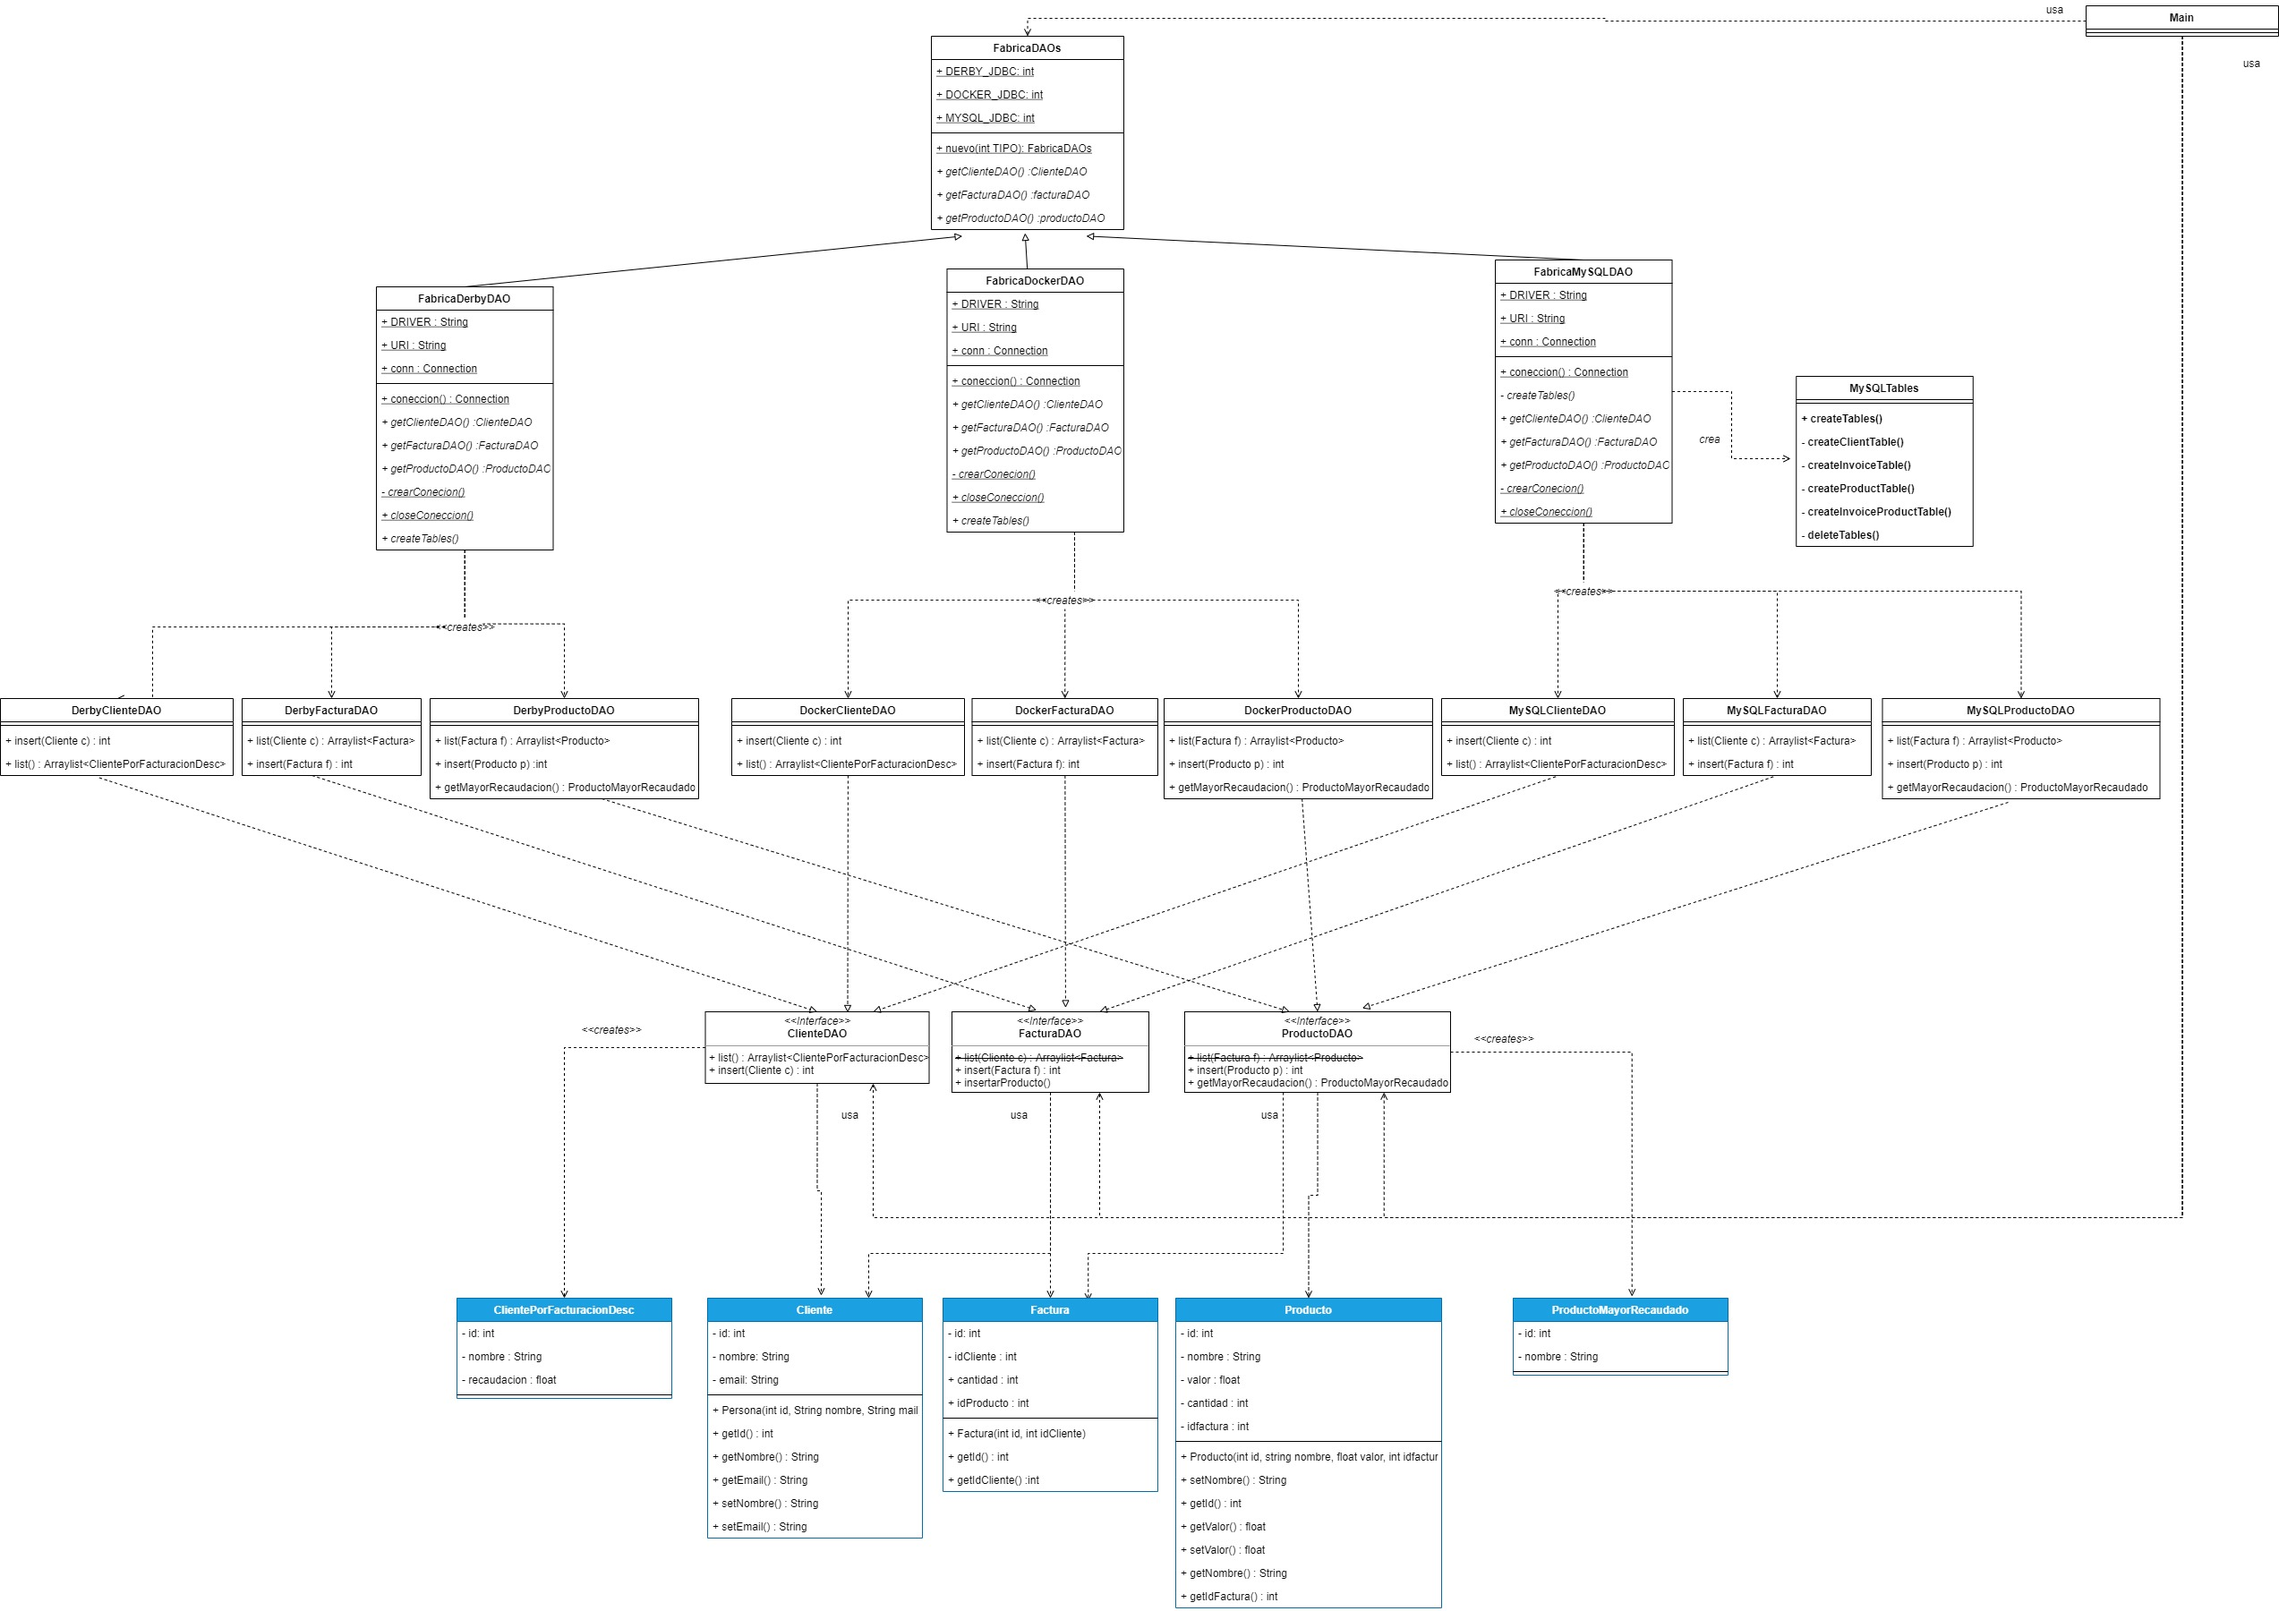
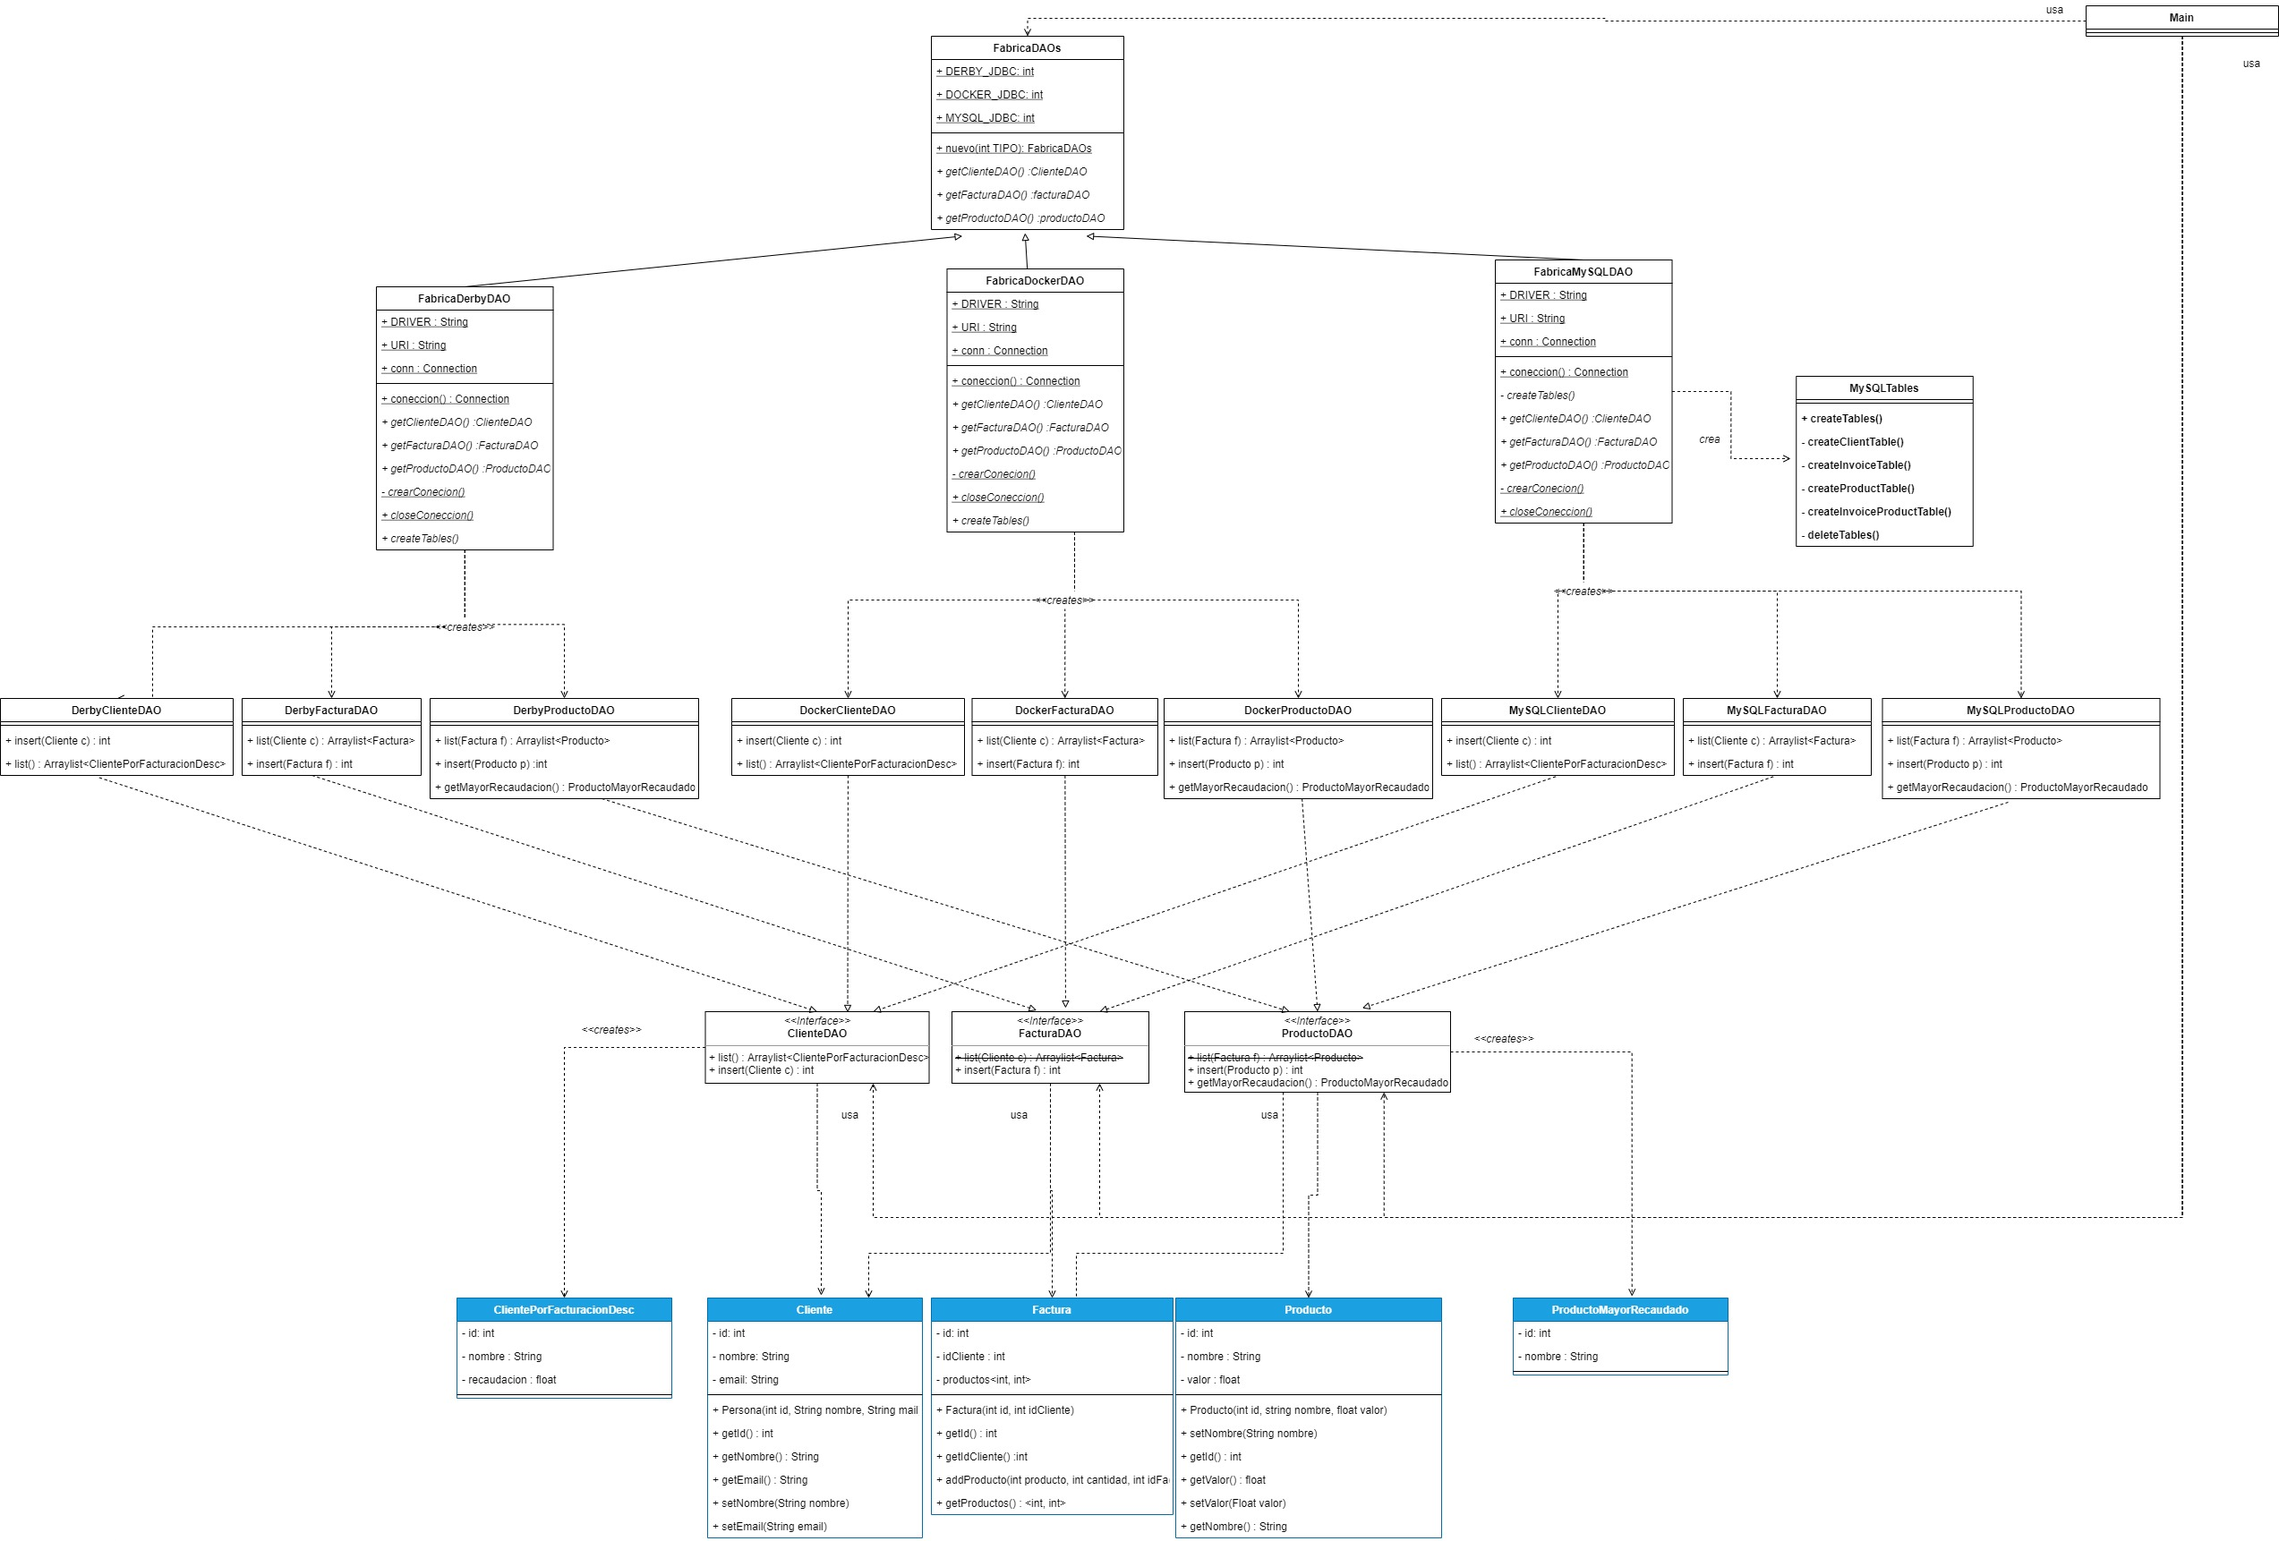
main actualizado

diff --git a/Entregable1/src/app/Main.java b/Entregable1/src/app/Main.java
@@ -30,30 +30,37 @@ public class Main {
 		FacturaDAO invoiceDAO = MySqlFactory.getFacturaDAO();
 		ProductoDAO productDAO = MySqlFactory.getProductoDAO();
 		
+		//Clientes
 		CSVParser parser = CSVFormat.DEFAULT.withHeader().parse(new FileReader("./data/clientes.csv"));	
 		for(CSVRecord row: parser) {
-			Cliente c1 = new Cliente(Integer.parseInt(row.get("idCliente")) , row.get("nombre"), row.get("email"));
+			Cliente c1 = new Cliente(Integer.parseInt(row.get("idCliente")) , row.get("nombre"), row.get("email"));	
 			clientDAO.insert(c1);
 		}
-		
-		CSVParser parser2 = CSVFormat.DEFAULT.withHeader().parse(new FileReader("./data/facturas.csv"));
-		for(CSVRecord row: parser2) {
-			Factura f1 = new Factura( Integer.parseInt(row.get("idFactura")), Integer.parseInt(row.get("idCliente")));
-			invoiceDAO.insert(f1);
-		}	
-		
+		//Productos
 		CSVParser parser3 = CSVFormat.DEFAULT.withHeader().parse(new FileReader("./data/productos.csv"));
 		for(CSVRecord row: parser3) {
 			Producto p1 = new Producto( Integer.parseInt(row.get("idProducto")), row.get("nombre"),Integer.parseInt(row.get("valor")));
-			productDAO.insert(p1);	
+			productDAO.insert(p1);
 		}	
+		//Facturas
+		ArrayList<Factura> facturas = new ArrayList<Factura>();
+		CSVParser parser2 = CSVFormat.DEFAULT.withHeader().parse(new FileReader("./data/facturas.csv"));
+		for(CSVRecord row: parser2) {
+			Factura f1 = new Factura( Integer.parseInt(row.get("idFactura")), Integer.parseInt(row.get("idCliente")));	
+			facturas.add(f1);
+		}
 		
-		CSVParser parser4 = CSVFormat.DEFAULT.withHeader().parse(new FileReader("./data/facturas-productos.csv"));;
+		CSVParser parser4 = CSVFormat.DEFAULT.withHeader().parse(new FileReader("./data/facturas-productos.csv"));
 		for(CSVRecord row: parser4) {
-			Factura f1 = new Factura(Integer.parseInt(row.get("idFactura")), Integer.parseInt(row.get("idProducto")) , Integer.parseInt(row.get("cantidad")) );
-			invoiceDAO.insertarProducto(f1);
-		}	
-		
+			for(Factura f : facturas ) {
+				f.addProducto(Integer.parseInt(row.get("idFactura")), Integer.parseInt(row.get("idProducto")) , Integer.parseInt(row.get("cantidad")) );
+			}
+		}
+		for(Factura f : facturas ) {
+			invoiceDAO.insertar(f);
+		}
+		//----------
+			
 		ArrayList<ClientePorFacturacionDesc> list = new ArrayList<ClientePorFacturacionDesc>();
 		list = clientDAO.list();
 		System.out.println(list);
@@ -61,4 +68,5 @@ public class Main {
 		System.out.println(productDAO.getMayorRecaudacion());
 
 	}
+	
 }

diff --git a/Entregable1/src/db/MySQLFacturaDAO.java b/Entregable1/src/db/MySQLFacturaDAO.java
@@ -3,6 +3,8 @@ package db;
 import java.sql.PreparedStatement;
 import java.sql.SQLException;
 import java.util.ArrayList;
+import java.util.Hashtable;
+
 import entidades.Cliente;
 import entidades.Factura;
 
@@ -26,8 +28,8 @@ public class MySQLFacturaDAO implements FacturaDAO {
 	 * @param f Que es la factura.
 	 * @throws SQLException
 	 */
-	@Override
-	public int insert(Factura f) throws SQLException {
+	
+	private void insertarFactura(Factura f) throws SQLException {
 		String insert = "INSERT INTO Invoice(idInvoice, idClient) VALUES (?,?)";
 		//preparo la sentencia en la conexion
 		PreparedStatement ps = FabricaMysqlDAO.coneccion().prepareStatement(insert);
@@ -36,19 +38,35 @@ public class MySQLFacturaDAO implements FacturaDAO {
 		ps.executeUpdate();
 		ps.close();
 		FabricaMysqlDAO.coneccion().commit();
-		return f.getId();
 	}
 	
-	@Override
-	public int insertarProducto(Factura f) throws SQLException {
+	private void insertarProductoEnFactura(int idProducto, int cantidad, int idFactura) throws SQLException {
 		String insertFacturaProducto = "INSERT INTO Invoice_Product(idInvoice, idProduct, Quantity) VALUES (?, ?, ?)";
 		PreparedStatement ps = FabricaMysqlDAO.coneccion().prepareStatement(insertFacturaProducto);
-		ps.setInt(1, f.getId());
-		ps.setInt(2, f.getIdProducto());
-		ps.setInt(3, f.getCantidad());
+		ps.setInt(1, idFactura);
+		ps.setInt(2, idProducto);
+		ps.setInt(3, cantidad);
 		ps.executeUpdate();
 		ps.close();
 		FabricaMysqlDAO.coneccion();
+	}
+	
+	private void insertarProductosEnFactura(Factura f) throws SQLException {
+		Hashtable<Integer, Integer> productos = f.getProductos();
+		productos.forEach((k,v) -> {
+			try {
+				this.insertarProductoEnFactura( k,v,f.getId() );
+			} catch (SQLException e) {
+				// TODO Auto-generated catch block
+				e.printStackTrace();
+			}
+		});
+	}
+	
+	@Override
+	public int insertar(Factura f) throws SQLException {
+		this.insertarFactura(f);
+		this.insertarProductosEnFactura(f);
 		return f.getId();
 	}
 

diff --git a/Entregable1/src/entidades/Producto.java b/Entregable1/src/entidades/Producto.java
@@ -5,24 +5,11 @@ public class Producto {
 	private int id;
 	private String nombre;
 	private float valor;
-	private int cantidad;
-	private int idFactura;
 	
-	public Producto(int id, String nombre, float valor, int cantidad, int idFactura) {
-		this.id = id;
-		this.nombre = nombre;
-		this.valor = valor;
-		this.cantidad = cantidad;
-		this.idFactura = idFactura;
-	}
 	public Producto(int id, String nombre, float valor) {
 		this.id = id;
 		this.nombre = nombre;
 		this.valor = valor;
-		
-	}
-	public int getIdFactura() {
-		return this.idFactura;
 	}
 
 	public String getNombre() {
@@ -41,21 +28,13 @@ public class Producto {
 		this.valor = valor;
 	}
 
-	public int getCantidad() {
-		return cantidad;
-	}
-
-	public void setCantidad(int cantidad) {
-		this.cantidad = cantidad;
-	}
-
 	public int getId() {
 		return id;
 	}
 
 	@Override
 	public String toString() {
-		return "Producto [id=" + id + ", nombre=" + nombre + ", valor=" + valor + ", cantidad=" + cantidad + "]";
+		return "Producto [id=" + id + ", nombre=" + nombre + ", valor=" + valor + "]";
 	}
 	
 	

diff --git a/Entregable1/src/entidades/Factura.java b/Entregable1/src/entidades/Factura.java
@@ -1,36 +1,35 @@
 package entidades;
 
+import java.util.Hashtable;
+
 public class Factura {
 
 	private int id;
 	private int idCliente;
-	private int cantidad;
-	private int idProducto;
+	private Hashtable<Integer, Integer> productos;
 
 	public Factura(int id, int idCliente) {
 		this.id = id;
 		this.idCliente = idCliente;
+		this.productos = new Hashtable<Integer, Integer>();
 	}
 	
-	public Factura(int id, int idProducto, int cantidad) {
-		this.id = id;
-		this.idProducto = idProducto;
-		this.cantidad = cantidad;
+	public void addProducto(int producto, int cantidad, int idFactura) {
+		if (idFactura == this.id) {
+			this.productos.put(producto, cantidad);	
+		}
+	}
+	
+	public Hashtable<Integer, Integer> getProductos() {
+		return new Hashtable<Integer, Integer>(this.productos);
 	}
 	
 	public int getId() {
 		return id;
 	}
-
+	
 	public int getIdCliente() {
-		return this.idCliente;
-	}
-
-	public int getCantidad() {
-		return this.cantidad;
-	}
-	public int getIdProducto() {
-		return this.idProducto;
+		return idCliente;
 	}
 
 	@Override

diff --git a/Entregable1/src/db/MySQLProductoDAO.java b/Entregable1/src/db/MySQLProductoDAO.java
@@ -31,22 +31,6 @@ public class MySQLProductoDAO implements ProductoDAO {
 		ps.executeUpdate();
 		ps.close();
 		FabricaMysqlDAO.coneccion().commit();
-		
-		if (p.getIdFactura() > 0)
-			invoiceProductInsert(p);
-	}
-	
-	private void invoiceProductInsert(Producto p) throws SQLException {
-		String insert = "INSERT INTO Invoice_Product(IdInvoiceProduct, idInvoice, idProduct, Quantity) VALUES (?,?,?,?)";
-		//preparo la sentencia en la conexion
-		PreparedStatement ps = FabricaMysqlDAO.coneccion().prepareStatement(insert);
-		ps.setInt(1, p.getId()); // ver
-		ps.setInt( 2, p.getIdFactura());
-		ps.setInt(3, p.getId());
-		ps.setInt(4, p.getCantidad());
-		ps.executeUpdate();
-		ps.close();
-		FabricaMysqlDAO.coneccion().commit();
 	}
 
 	@Override

diff --git a/Entregable1/src/entidades/Cliente.java b/Entregable1/src/entidades/Cliente.java
@@ -1,16 +1,26 @@
 package entidades;
 
+//import java.util.ArrayList;
+
 public class Cliente {
 	
 	private int id;
 	private String nombre;
 	private String email;
+//	private ArrayList<Factura> facturas;
 	
 	public Cliente(int id, String nombre, String email) {
 		this.id = id;
 		this.nombre = nombre;
 		this.email = email;
+//		this.facturas = new ArrayList<Factura>();
 	}	
+	
+//	public void addFactura(Factura f, int idCliente) {
+//		if(idCliente == this.id) {
+//			this.facturas.add(f);	
+//		}
+//	}
 
 	public String getNombre() {
 		return nombre;

diff --git a/Entregable1/src/db/DockerFacturaDAO.java b/Entregable1/src/db/DockerFacturaDAO.java
@@ -25,17 +25,7 @@ public class DockerFacturaDAO implements FacturaDAO {
 	 * @param f Que es la factura.
 	 */
 	@Override
-	public int insert(Factura f) throws SQLException {
-		// TODO Auto-generated method stub
-		return 0;
-	}
-	public int insertarProducto(Factura f,int a) throws SQLException {
-		// TODO Auto-generated method stub
-		return 0;
-	}
-
-	@Override
-	public int insertarProducto(Factura f) throws SQLException {
+	public int insertar(Factura f) throws SQLException {
 		// TODO Auto-generated method stub
 		return 0;
 	}

diff --git a/Entregable1/src/db/FacturaDAO.java b/Entregable1/src/db/FacturaDAO.java
@@ -19,6 +19,7 @@ public interface FacturaDAO {
 	 * @param f Que es la factura.
 	 * @throws SQLException
 	 */
-	int insert(Factura f) throws SQLException;
-	int insertarProducto(Factura f) throws SQLException;
+	int insertar(Factura f) throws SQLException;
+//	void insertarFactura(Factura f) throws SQLException;
+//	int insertarProductoEnFactura(Factura f) throws SQLException;
 }
